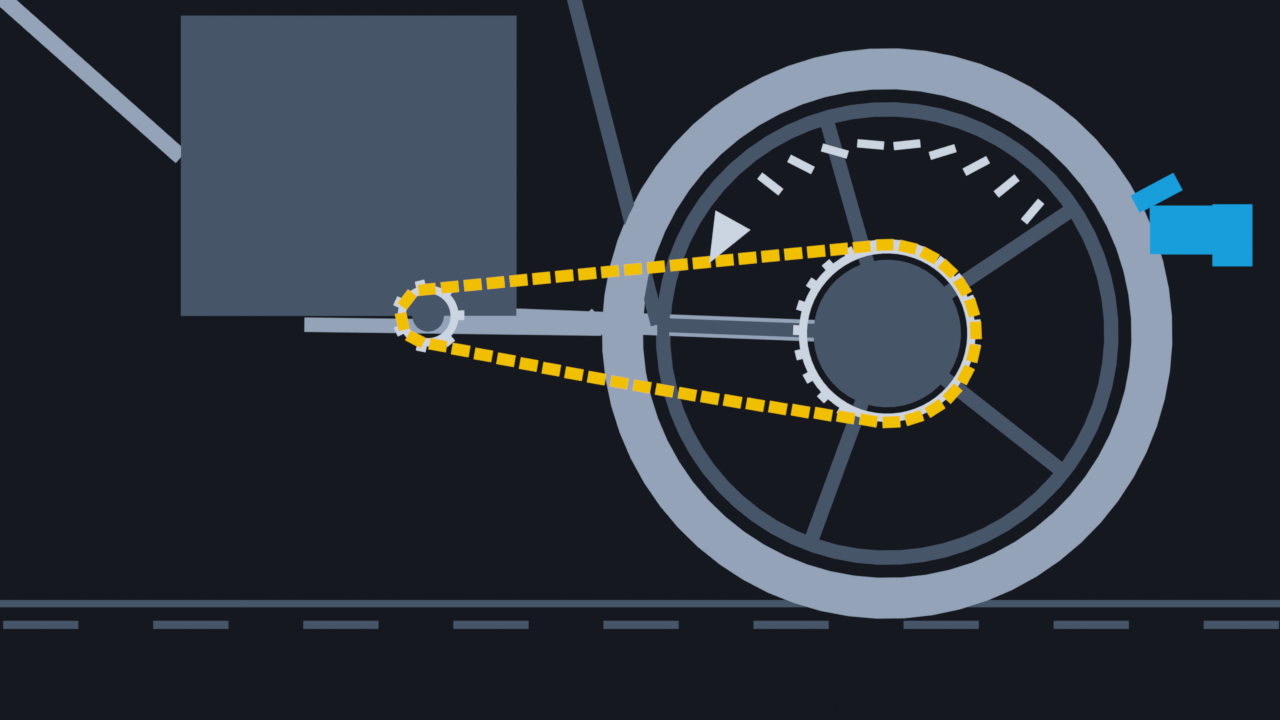
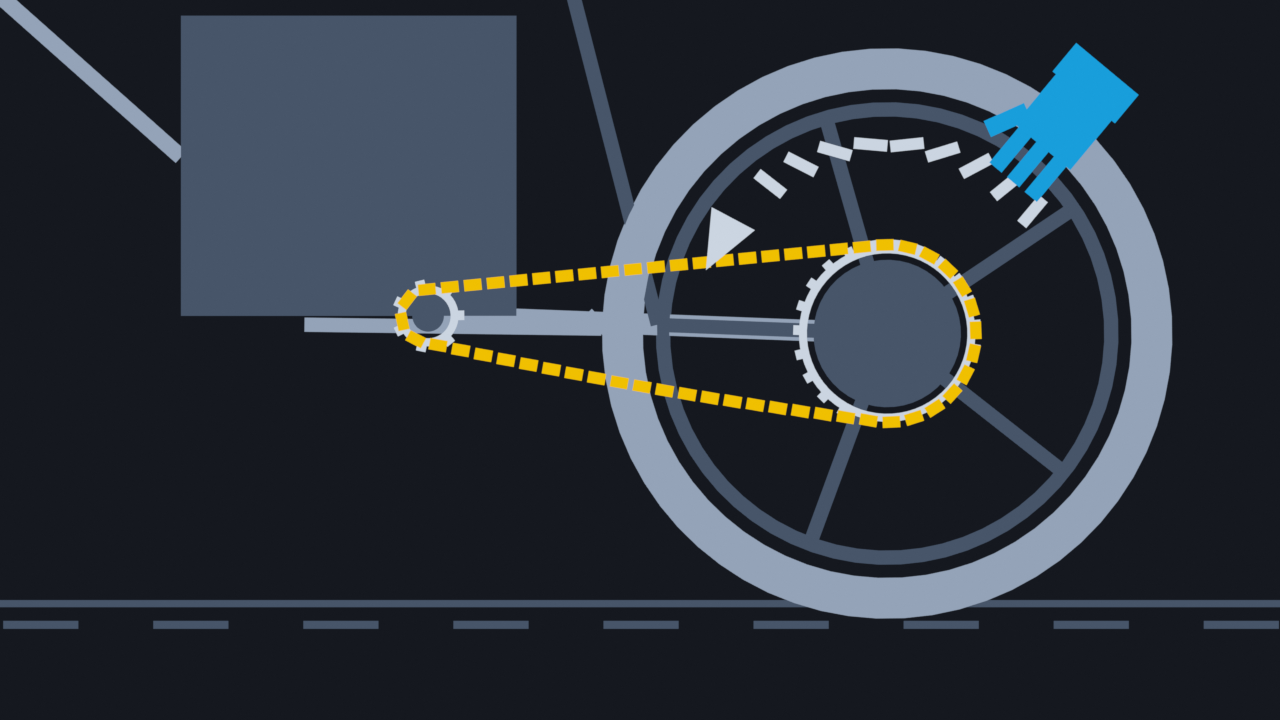
Checkpoint 2026-11-14 02:00 (14 files)
A	docs/pitch-assets/chain_0130.png
M	docs/pitch-assets/chain_0235.png
A	docs/pitch-assets/chain_0330.png
M	docs/pitch-assets/tyre_0035.png
A	docs/pitch-assets/tyre_0075.png
A	docs/pitch-assets/tyre_0130.png
A	docs/pitch-assets/tyre_0166.png
A	docs/pitch-assets/tyre_0215.png
A	docs/pitch-assets/tyre_0250.png
A	docs/pitch-assets/tyre_0292.png
A	docs/pitch-assets/tyre_0320.png
M	docs/pitch-assets/tyre_0395.png
M	scripts/fix_chain.py
M	scripts/fix_tyre.py

Changed region(s): [[0.5938, 0.0611, 0.9062, 0.3056], [0.875, 0.2444, 1.0, 0.3667], [0.5312, 0.3056, 0.5938, 0.3667]]

diff --git a/scripts/fix_chain.py b/scripts/fix_chain.py
@@ -430,17 +430,25 @@ def build_hand():
     """A glove, near enough. It says "by hand", which is half the instruction.
 
     The guide is explicit that this is done with the engine off and nothing
-    turning, so the tool in every shot is a hand.
+    turning, so the tool in every shot is a hand. Built pointing along -X,
+    fingers first, and rotated into place: that way one glyph can hold the
+    chain, turn the wheel and press the lower run without being redrawn.
     """
     root = empty("Hand")
     m = flat("HandMat", HAND)
-    box("Palm", loc=(0, Y_HAND, 0), scale=(0.075, 0.004, 0.055),
+    box("Palm", loc=(0.030, Y_HAND, 0), scale=(0.080, 0.004, 0.082),
         material=m, parent=root)
-    box("Thumb", loc=(-0.030, Y_HAND, 0.042), rot=(0, math.radians(-28), 0),
-        scale=(0.055, 0.004, 0.022), material=m, parent=root)
-    box("Cuff", loc=(0.056, Y_HAND, -0.006), scale=(0.045, 0.004, 0.070),
+    for i, dz in enumerate((0.026, 0.0, -0.026)):
+        box("Finger%d" % i, loc=(-0.036, Y_HAND, dz),
+            scale=(0.052, 0.004, 0.018), material=m, parent=root)
+    box("Thumb", loc=(-0.012, Y_HAND, 0.050), rot=(0, math.radians(26), 0),
+        scale=(0.050, 0.004, 0.020), material=m, parent=root)
+    box("Cuff", loc=(0.084, Y_HAND, 0), scale=(0.042, 0.004, 0.092),
         material=m, parent=root)
     return root
+
+
+HAND_REACH = 0.062   # from the hand's origin to its fingertips
 
 
 def build_arrow():
@@ -455,9 +463,9 @@ def build_arrow():
         box("ArrowSeg%d" % i,
             loc=(math.cos(a) * r, Y_ARROW, math.sin(a) * r),
             rot=(0, math.atan2(math.cos(a), -math.sin(a)), 0),
-            scale=(0.030, 0.004, 0.009), material=m, parent=root)
-    head = math.radians(151)
-    bpy.ops.mesh.primitive_cone_add(radius1=0.026, depth=0.055, vertices=3)
+            scale=(0.038, 0.004, 0.013), material=m, parent=root)
+    head = math.radians(152)
+    bpy.ops.mesh.primitive_cone_add(radius1=0.032, depth=0.066, vertices=3)
     c = bpy.context.object
     c.name = "ArrowHead"
     # The cone points along its own +Z; aim that down the tangent, which at
@@ -468,7 +476,7 @@ def build_arrow():
     return root
 
 
-def build_marks(belt):
+def build_marks():
     """Two ticks either side of the lower run, at the point it is checked.
 
     Deliberately without a scale on them. The amount of free play is a figure
@@ -477,9 +485,7 @@ def build_marks(belt):
     stops there.
     """
     root = empty("Marks")
-    mid_s = belt.s2 + belt.lt / 2
-    x, z, _, _ = belt.at(mid_s)
-    root.location = (x, 0, z)
+    root.location = (CHECK_X, 0, CHECK_Z)
     m = flat("MarkMat", MARK)
     for i, dz in enumerate((SAG_SWING + 0.012, -SAG_SWING - 0.012)):
         box("Mark%d" % i, loc=(0, Y_ARROW, dz), scale=(0.075, 0.004, 0.007),
@@ -548,38 +554,48 @@ def state(f: int):
 
 
 def hand_at(f: int, st):
-    """Where the hand is, and whether it is in shot at all.
+    """Where the hand is, how it is turned, and whether it is in shot at all.
 
     Three visits: lift the chain over the sprocket, roll the wheel, then press
-    the lower run to see how much play it has.
+    the lower run to see how much play it has. It always enters and leaves
+    past the right edge of frame, so it never fades in over the machine.
     """
-    if F_HAND_IN <= f <= F_HAND_OUT + 6:
+    park = (0.62, -0.34)
+
+    if F_HAND_IN <= f <= F_HAND_OUT + 8:
         enter = ease(seg(f, F_HAND_IN, F_LIFT_A))
-        out = ease(seg(f, F_HAND_OUT, F_HAND_OUT + 6))
+        out = ease(seg(f, F_HAND_OUT, F_HAND_OUT + 8))
         cx, cz = st["centre"]
-        # Rides with the loop it is carrying, a little below and behind it.
-        x = mix(0.44, cx + 0.105, enter)
-        z = mix(-0.34, cz - 0.070, enter)
-        return (mix(x, 0.46, out), mix(z, -0.30, out)), 1.0 - out * 0.9
+        # Fingertips on the outside of the loop, so the hand is holding the
+        # chain rather than hovering near it.
+        x = mix(park[0], cx + st["radius"] + HAND_REACH + 0.012, enter)
+        z = mix(park[1], cz, enter)
+        return (mix(x, park[0], out), mix(z, park[1], out)), 0.0, 1.0 - out
 
-    if F_STAND_UP + 2 <= f <= F_ROLL_END + 10:
+    if F_STAND_UP + 2 <= f <= F_ROLL_END + 12:
         enter = ease(seg(f, F_STAND_UP + 2, F_ROLL_START))
-        out = ease(seg(f, F_ROLL_END, F_ROLL_END + 10))
-        # On the tyre, sweeping up its rear face: a wheel rolled forwards has
-        # its back edge coming up, so that is the way the hand goes.
+        out = ease(seg(f, F_ROLL_END, F_ROLL_END + 12))
+        # On the tyre, sweeping up and over its rear face: a wheel rolled
+        # forwards has its back edge coming up, so that is the way the hand
+        # goes, and it goes twice because state() pushes the wheel twice.
         u = seg(f, F_ROLL_START, F_ROLL_END)
-        a = math.radians(-24 + 92 * (0.5 * ease(seg(u, 0.0, 0.44))
-                                     + 0.5 * ease(seg(u, 0.50, 0.96))))
-        tx = math.cos(a) * (WHEEL_R + 0.055)
-        tz = math.sin(a) * (WHEEL_R + 0.055)
-        return (mix(0.52, tx, enter) + out * 0.22,
-                mix(-0.34, tz, enter)), 1.0 - out * 0.9
+        a = math.radians(6 + 94 * (0.5 * ease(seg(u, 0.0, 0.44))
+                                   + 0.5 * ease(seg(u, 0.50, 0.96))))
+        grip = WHEEL_R - 0.015
+        tx, tz = math.cos(a) * grip, math.sin(a) * grip
+        x = mix(park[0], tx, enter)
+        z = mix(park[1], tz, enter)
+        # Fingers point at the hub, which is what a hand on a tyre looks like.
+        return (mix(x, park[0], out), mix(z, park[1], out)), -a, 1.0 - out
 
-    if F_SLACK_IN - 10 <= f:
-        enter = ease(seg(f, F_SLACK_IN - 10, F_SLACK_IN + 8))
-        return (-0.26, mix(-0.34, -0.085 - st["sag"] - 0.040, enter)), enter
+    if F_SLACK_IN - 12 <= f:
+        enter = ease(seg(f, F_SLACK_IN - 12, F_SLACK_IN + 6))
+        # Under the lower run, fingers up, riding with it as it is pushed.
+        z = CHECK_Z - st["sag"] - HAND_REACH - 0.016
+        return ((mix(park[0], CHECK_X, enter), mix(park[1], z, enter)),
+                math.pi / 2, enter)
 
-    return (0.6, -0.4), 0.0
+    return park, 0.0, 0.0
 
 
 # ---------------------------------------------------------------- animation
@@ -633,10 +649,12 @@ def animate(objs, n_links):
             objs["stand"].rotation_euler = Euler((0, st["stand"], 0))
             objs["stand"].keyframe_insert("rotation_euler", frame=f)
 
-            (hx, hz), hv = hand_at(f, st)
+            (hx, hz), ha, hv = hand_at(f, st)
             objs["hand"].location = (hx, 0, hz)
+            objs["hand"].rotation_euler = Euler((0, ha, 0))
             objs["hand"].scale = (max(hv, 0.001),) * 3
             objs["hand"].keyframe_insert("location", frame=f)
+            objs["hand"].keyframe_insert("rotation_euler", frame=f)
             objs["hand"].keyframe_insert("scale", frame=f)
 
             for key in ("arrow", "marks"):
@@ -701,13 +719,10 @@ def main() -> int:
     rear_sprocket = build_sprocket("RearSprocket", REAR_C, R_REAR, TEETH_REAR, m_steel)
     front_sprocket = build_sprocket("FrontSprocket", FRONT_C, R_FRONT, TEETH_FRONT, m_steel)
 
-    seated = Belt(FRONT_C, R_FRONT, REAR_C, R_REAR)
-    n_links = int(round(seated.length / PITCH))
-    links = build_chain(n_links)
-
+    links = build_chain(N_LINKS)
     hand = build_hand()
     arrow = build_arrow()
-    marks = build_marks(seated)
+    marks = build_marks()
 
     cam_data = bpy.data.cameras.new("Cam")
     cam_data.type = "ORTHO"
@@ -725,11 +740,11 @@ def main() -> int:
         "rear_sprocket": rear_sprocket, "front_sprocket": front_sprocket,
         "dashes": dashes, "stand": stand, "hand": hand, "arrow": arrow,
         "marks": marks, "cam": cam, "ign": m_ign, "neu": m_neu,
-    }, n_links)
+    }, N_LINKS)
 
     setup_render(scene)
     print("CHAIN %d links, loop %.0f mm, rear r %.1f mm, front r %.1f mm"
-          % (n_links, seated.length * 1000, R_REAR * 1000, R_FRONT * 1000))
+          % (N_LINKS, SEATED.length * 1000, R_REAR * 1000, R_FRONT * 1000))
 
     if still is not None:
         os.makedirs(STILL_DIR, exist_ok=True)

diff --git a/scripts/fix_tyre.py b/scripts/fix_tyre.py
@@ -108,7 +108,8 @@ LAY = {
     "rim": 0.50,
     "spoke": 0.45,
     "cap": 0.40,
-    "line": 0.35,
+    "line": 0.36,
+    "socket": 0.33,
     "nut": 0.30,
     "chock": 0.25,
     "brace": 0.20,
@@ -373,8 +374,10 @@ def build_car(mats):
     ]
 
     # The jack point. breakdown.ts: "a reinforced pad under the sill, usually
-    # marked with a notch, arrow or triangle in the trim."
-    mark = triangle("JackMark", 0.075, (JACK_X, LAY["mark"], BODY_BOTTOM + 0.055),
+    # marked with a notch, arrow or triangle in the trim." Hung below the sill
+    # with its tip just inside it, so it points at the pad rather than sitting
+    # on top of it where the sill swallows half the arrow.
+    mark = triangle("JackMark", 0.095, (JACK_X, LAY["mark"], BODY_BOTTOM - 0.08),
                     material=mats["brand"], parent=car)
 
     rear = build_wheel("Rear", car, mats, rim_mat=mats["steel"])
@@ -422,19 +425,21 @@ def build_jack(mats, car):
     its own middle and buried half the jack in the tarmac.
     """
     root = empty("JackRoot", (JACK_PARK_X, 0, 0), parent=car)
-    plate("JackFoot", 0.30, 0.05, (0, LAY["jack"], 0.025),
+    plate("JackFoot", 0.36, 0.06, (0, LAY["jack"], 0.03),
           material=mats["brand_deep"], parent=root)
     lift = empty("JackLift", (0, 0, 0), parent=root)
-    plate("JackColumn", 0.11, 0.42, (0, LAY["jack"], 0.21),
+    plate("JackColumn", 0.12, 0.42, (0, LAY["jack"], 0.21),
           material=mats["brand_deep"], parent=lift)
-    plate("JackHead", 0.24, 0.08, (0, LAY["jack"], JACK_HEAD_Z),
+    plate("JackHead", 0.30, 0.08, (0, LAY["jack"], JACK_HEAD_Z),
           material=mats["brand"], parent=lift)
     return root, lift
 
 
 def build_brace(mats, car):
     root = empty("Brace", (0, 0, -3.0), parent=car)
-    disc("BraceSocket", 0.105, (0, LAY["brace"], 0), material=mats["brand"], parent=root)
+    # The socket sits behind the nut, not over it, so the nut it is working
+    # stays visible and the socket reads as a ring round that one nut.
+    disc("BraceSocket", 0.105, (0, LAY["socket"], 0), material=mats["brand"], parent=root)
     plate("BraceBar", BRACE_LEN - 0.08, 0.07,
           (0.08 + (BRACE_LEN - 0.08) / 2, LAY["brace"], 0),
           material=mats["text"], parent=root)
@@ -505,6 +510,15 @@ def animate(rig, jack_root, jack_lift, brace, lines, cam, nut_positions):
     frame_at(F["lower"], WIDE)
     frame_at(F["star"], CLOSE)
 
+    # --- the starting state, keyed explicitly. A value an object was merely
+    # built with is overwritten the moment it gets a keyframe anywhere, since
+    # the first key extrapolates backwards to frame one: without these the
+    # brace was already on the wheel, and the nuts already loose, during the
+    # opening beat.
+    key(brace, 1, loc=(0, 0, -3.0), interp="CONSTANT")
+    for nut in nuts:
+        key_colour(nut.data.materials[0], 1, INK)
+
     # --- secure: the chock goes in behind the rear wheel.
     key(chock, F["secure"], loc=(-3.50, LAY["chock"], 0.12), interp="LINEAR")
     key(chock, F["secure"] + 11, loc=(-3.50, LAY["chock"], 0.12))
@@ -536,6 +550,9 @@ def animate(rig, jack_root, jack_lift, brace, lines, cam, nut_positions):
 
     key(jack_root, F["jack"] + 16, loc=(JACK_PARK_X, 0, 0), interp="LINEAR")
     key(jack_root, F["jack"] + 34, loc=(JACK_X, 0, 0))
+    # The mark goes once the jack is standing on it: both are brand blue and
+    # at the same x, so leaving it on just smears the two shapes together.
+    key(mark, F["jack"] + 34, scale=(0, 0, 0), interp="CONSTANT")
     key(jack_lift, F["jack"] + 36, scale=(1, 1, 1))
     key(jack_lift, F["jack"] + 57, scale=(1, 1, LIFT_SCALE))
     key(pivot, F["jack"] + 36, rot=(0, 0, 0))
@@ -577,7 +594,6 @@ def animate(rig, jack_root, jack_lift, brace, lines, cam, nut_positions):
     key(pivot, F["lower"] + 27, rot=(0, 0, 0))
     key(jack_root, F["lower"] + 28, loc=(JACK_X, 0, 0), interp="LINEAR")
     key(jack_root, F["lower"] + 35, loc=(JACK_PARK_X, 0, 0))
-    key(mark, F["lower"] + 35, scale=(0, 0, 0), interp="CONSTANT")
 
     # --- the star pattern, drawn as it is worked.
     step = 12
